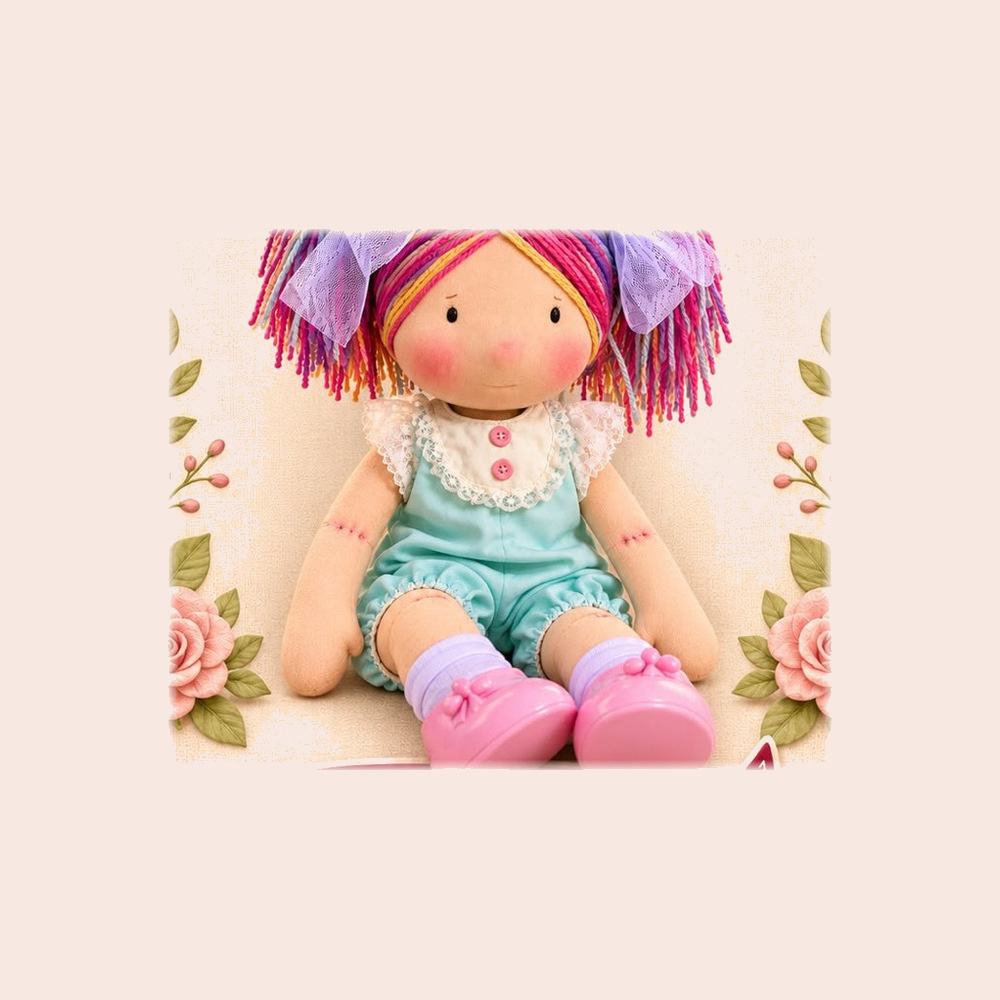
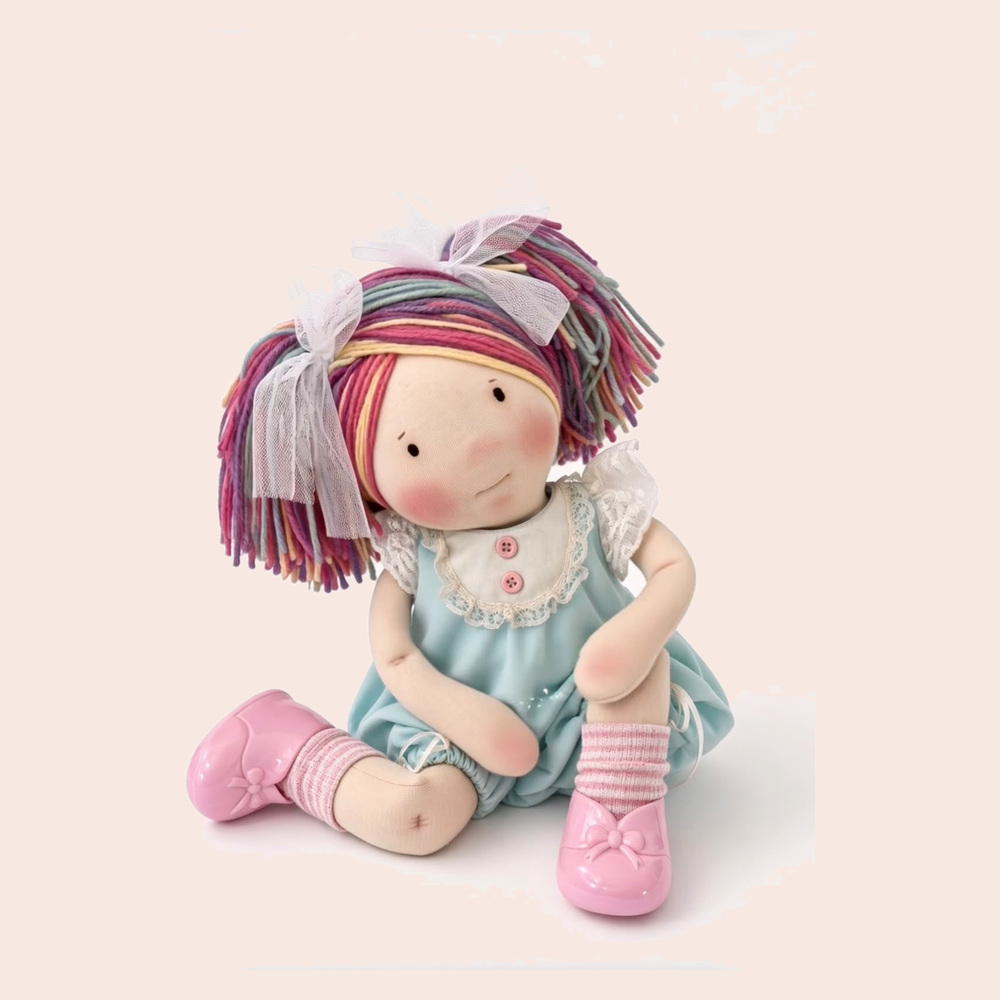
Add files via upload

diff --git a/cursos.js b/cursos.js
@@ -6,10 +6,10 @@ window.CURSOS = [
   {id:'turminha-da-juju', nome:'Turminha da Juju', preco:397, foto:'assets/turminha-da-juju.jpg?v=20261117-fotos-revisadas', descricao:'Conheça o curso Turminha da Juju do Ateliê Agulha e Pano.', checkout:''},
   {id:'figurinha-sarah-kay', nome:'Figurinha Sarah Kay', preco:157, foto:'assets/figurinhas-sarah-kay.jpg?v=20261117-fotos-revisadas', descricao:'Conheça o curso Figurinha Sarah Kay do Ateliê Agulha e Pano.', checkout:''},
   {id:'bebe-cebolinha', nome:'Bebê Cebolinha', preco:73, foto:'assets/bebe-cebolinha.jpg?v=20261117-fotos-revisadas', descricao:'Conheça o curso Bebê Cebolinha do Ateliê Agulha e Pano.', checkout:''},
-  {id:'molly', nome:'Molly', preco:59, foto:'assets/molly.jpg?v=20261117-fotos-revisadas', descricao:'Conheça o curso Molly do Ateliê Agulha e Pano.', checkout:''},
-  {id:'maluly', nome:'Maluly', preco:85, foto:'assets/maluly.jpg?v=20261117-fotos-revisadas', descricao:'Conheça o curso Maluly do Ateliê Agulha e Pano.', checkout:''},
+  {id:'molly', nome:'Molly', preco:59, foto:'assets/molly.jpg?v=20261117-tres-fotos-novas', descricao:'Conheça o curso Molly do Ateliê Agulha e Pano.', checkout:''},
+  {id:'maluly', nome:'Maluly', preco:85, foto:'assets/maluly.jpg?v=20261117-tres-fotos-novas', descricao:'Conheça o curso Maluly do Ateliê Agulha e Pano.', checkout:''},
   {id:'maria-flor', nome:'Maria Flor', preco:197, foto:'assets/maria-flor.jpg?v=20261117-mimos-correto5', descricao:'Conheça o curso Maria Flor do Ateliê Agulha e Pano.', checkout:''},
-  {id:'nenem-doll', nome:'Neném Doll', preco:75, foto:'assets/nenem-doll.jpg?v=20261117-fotos-revisadas', descricao:'Conheça o curso Neném Doll do Ateliê Agulha e Pano.', checkout:''},
+  {id:'nenem-doll', nome:'Neném Doll', preco:75, foto:'assets/nenem-doll.jpg?v=20261117-tres-fotos-novas', descricao:'Conheça o curso Neném Doll do Ateliê Agulha e Pano.', checkout:''},
   {id:'emilia', nome:'Emília', preco:49, foto:'assets/emilia.jpg?v=20261117-mimos-correto5', descricao:'Conheça o curso Emília do Ateliê Agulha e Pano.', checkout:''},
   {id:'clarinha', nome:'Clarinha', preco:79, foto:'assets/clarinha.jpg?v=20261117-mimos-correto5', descricao:'Conheça o curso Clarinha do Ateliê Agulha e Pano.', checkout:''}
 ];
